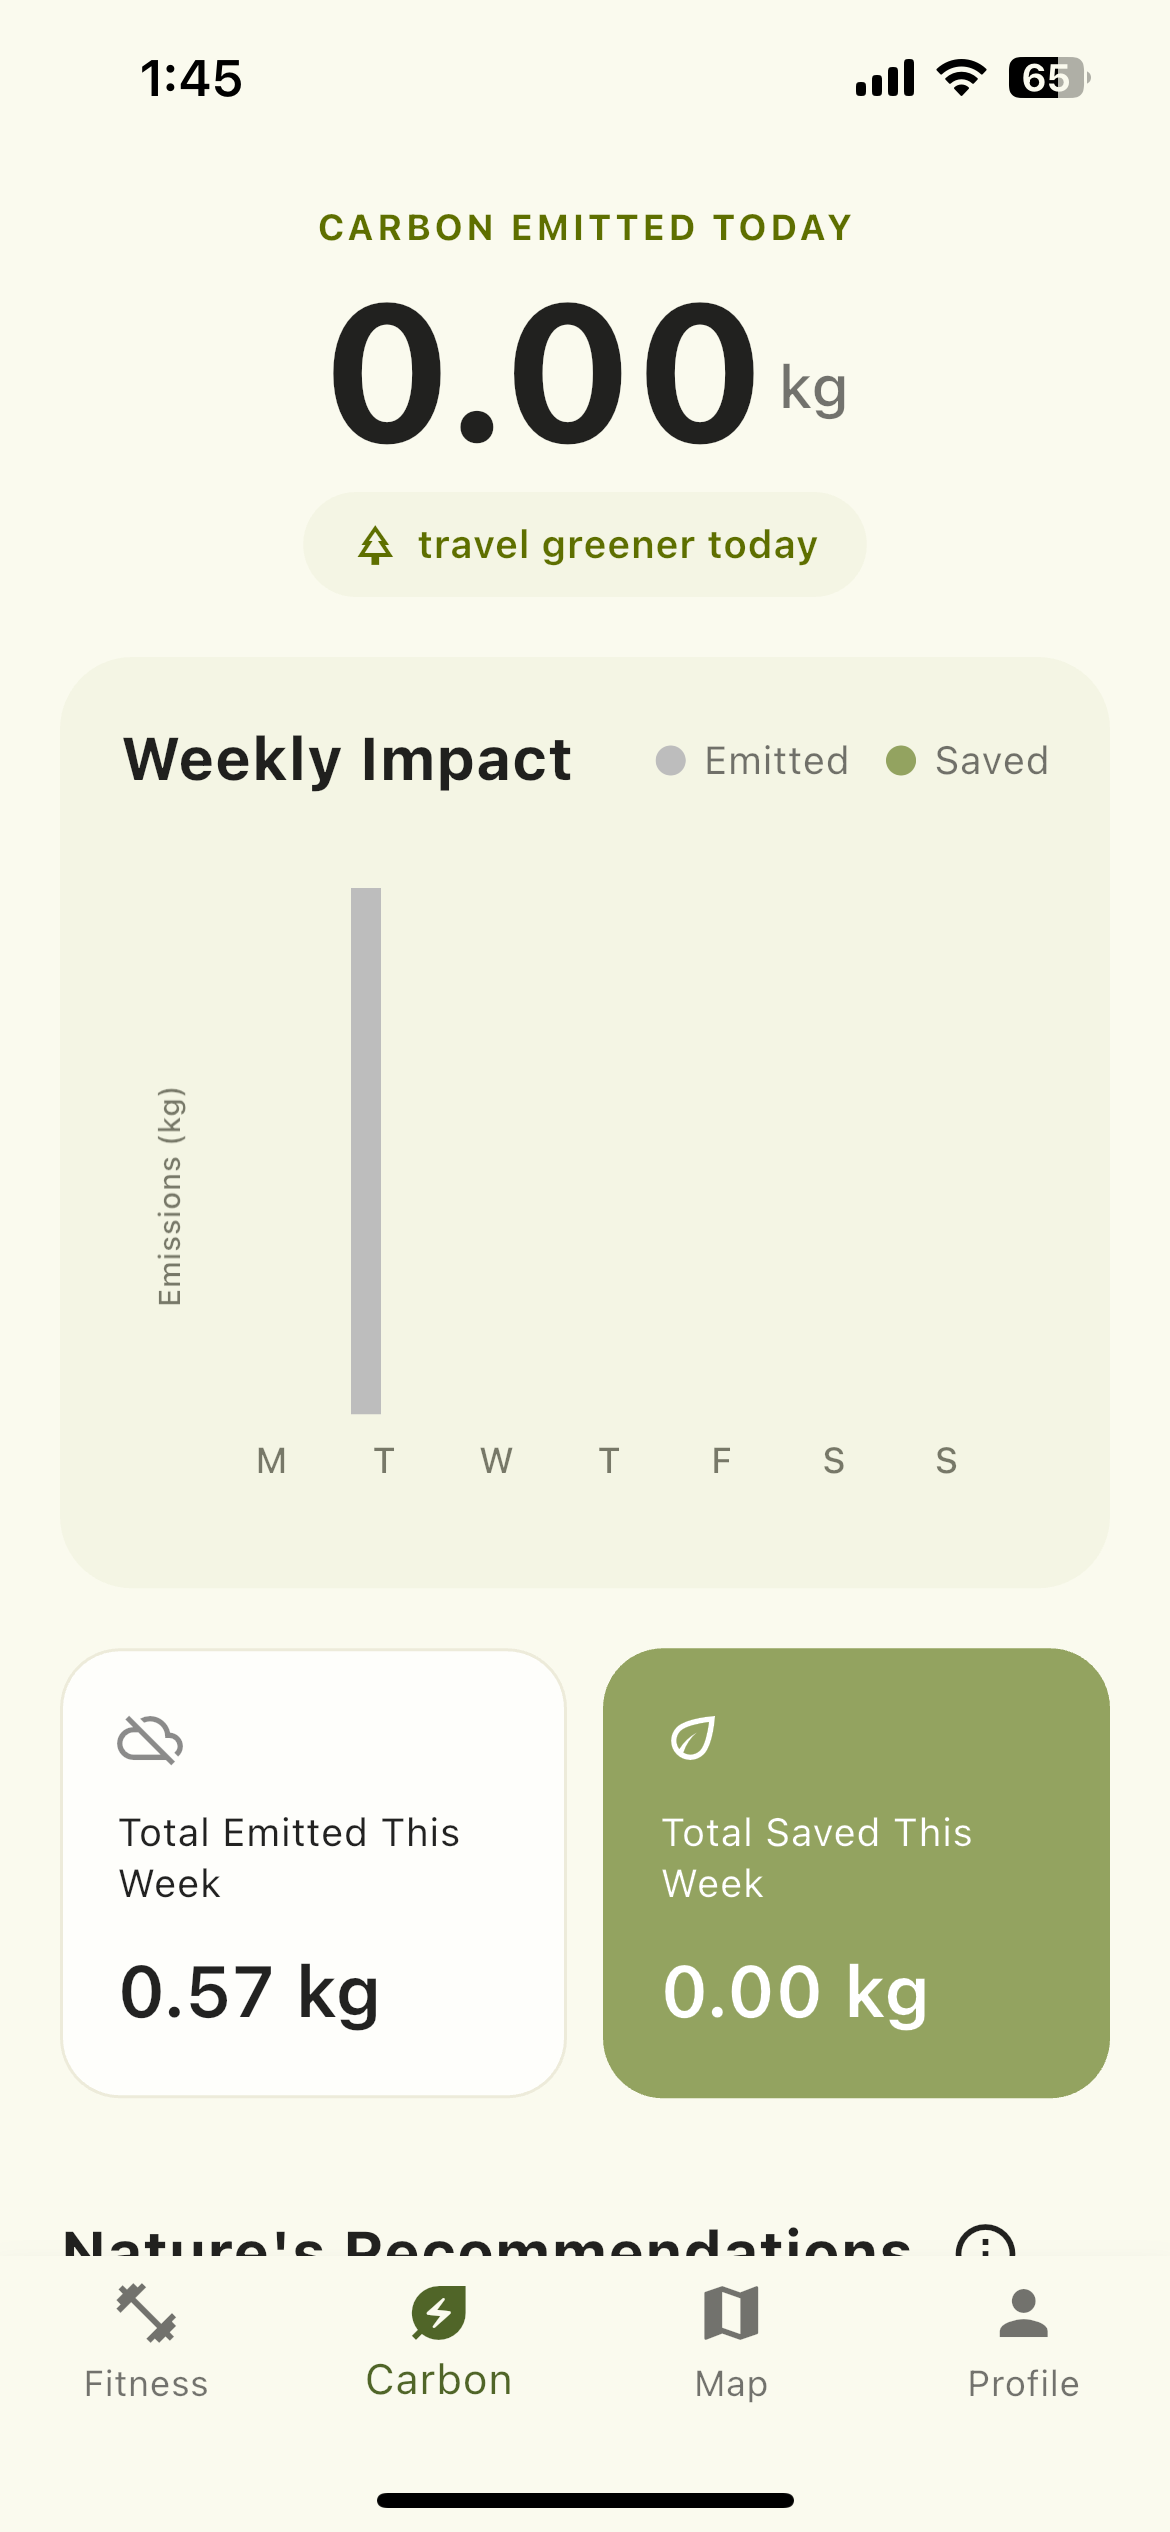
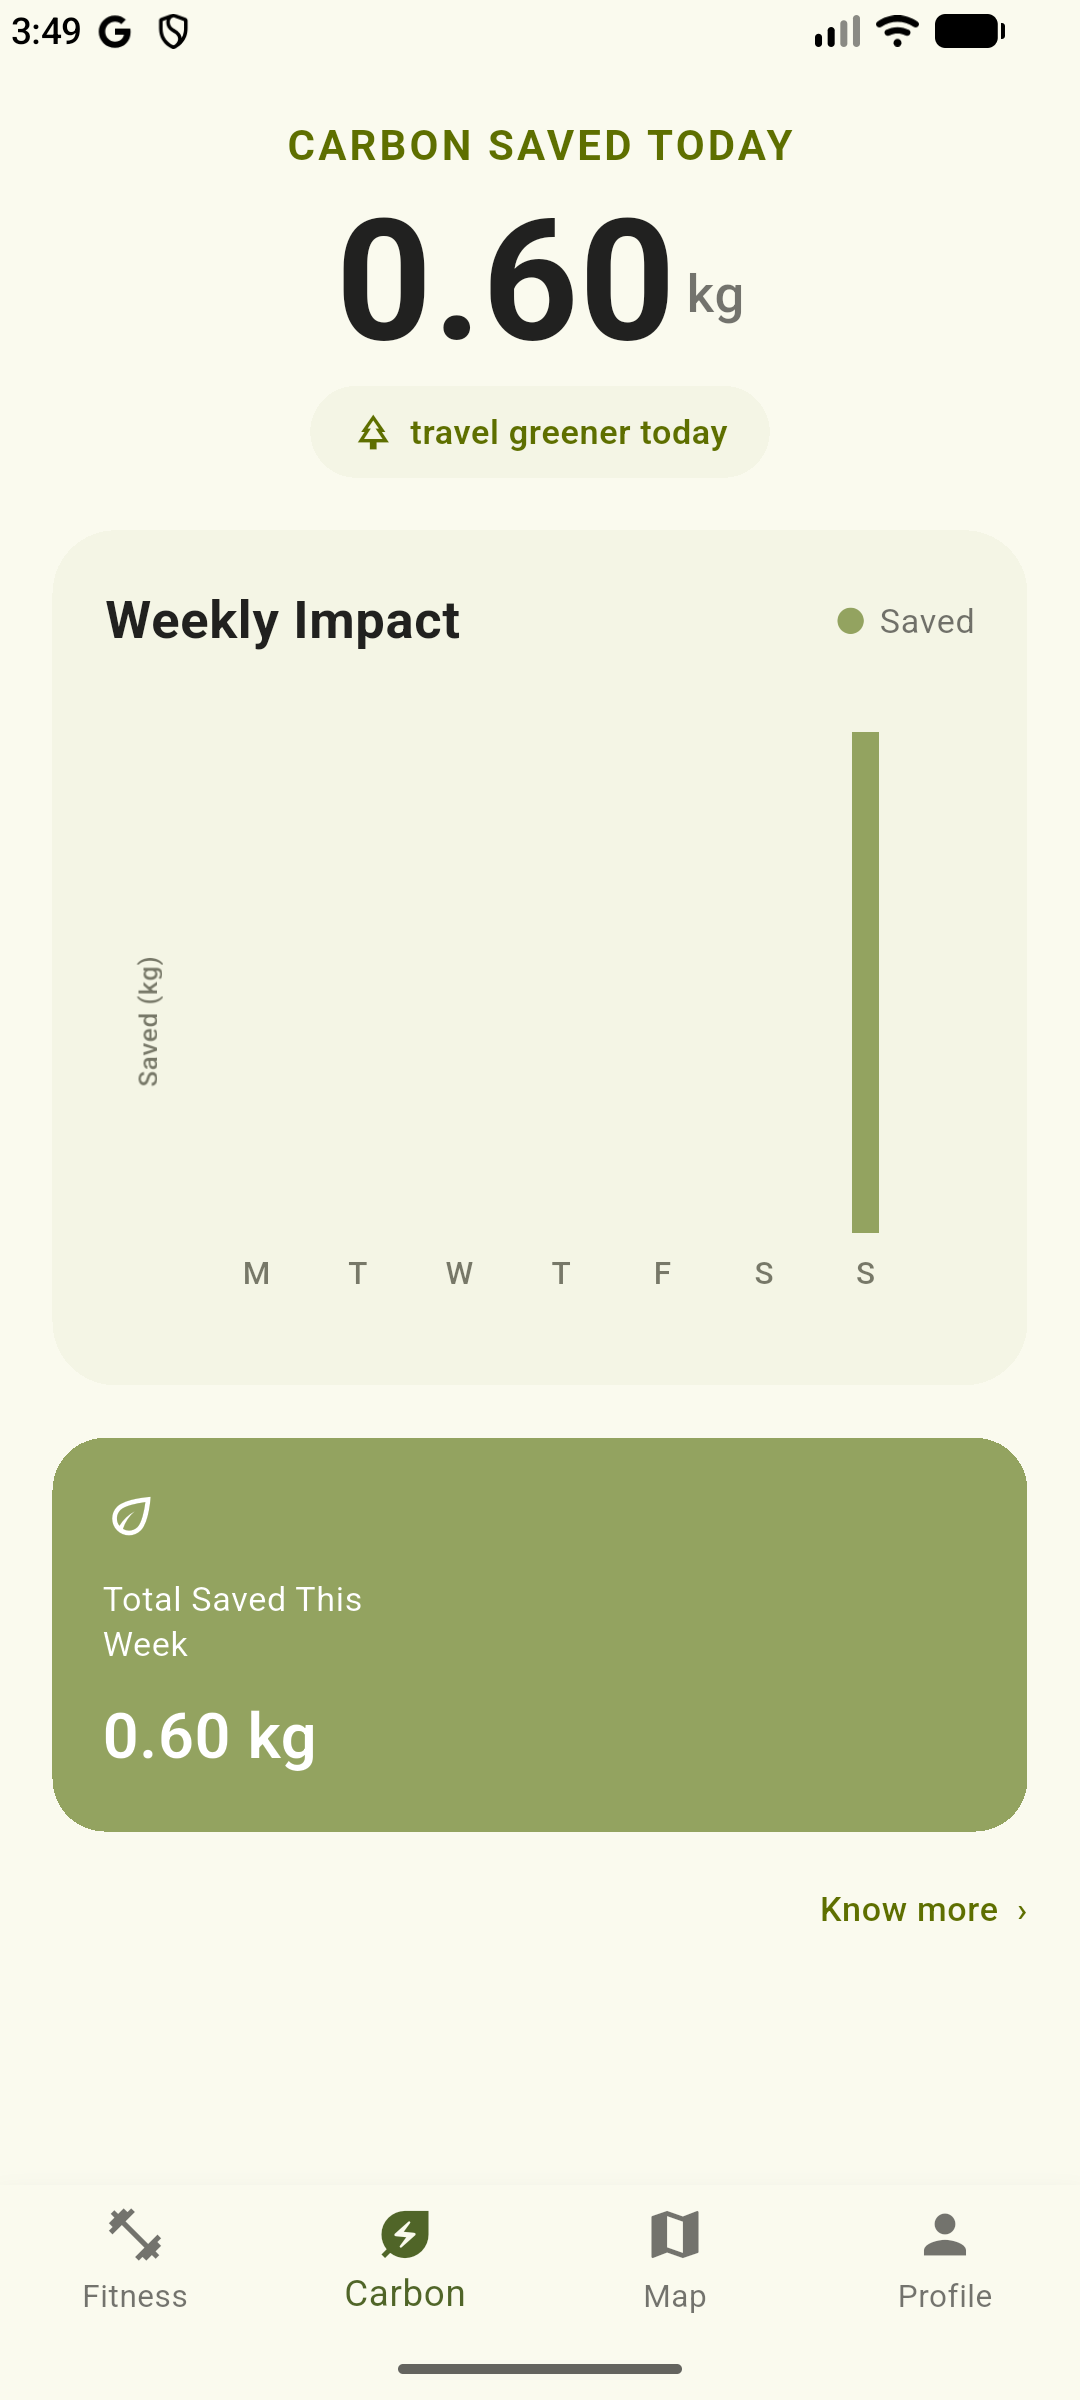
chore: docs update

diff --git a/lib/features/profile/widgets/tracking_option_tile.dart b/lib/features/profile/widgets/tracking_option_tile.dart
@@ -5,7 +5,7 @@ class TrackingOptionTile extends StatelessWidget {
   final bool selected;
   final IconData icon;
   final String label;
-  final VoidCallback onTap;
+  final VoidCallback? onTap;
   final String type;
 
   const TrackingOptionTile({
@@ -19,40 +19,38 @@ class TrackingOptionTile extends StatelessWidget {
 
   @override
   Widget build(BuildContext context) {
+    final enabled = onTap != null;
+
     return Expanded(
-      child: GestureDetector(
-        key: Key('$type-$label'),
-        onTap: onTap,
-        child: Container(
-          padding: const EdgeInsets.symmetric(vertical: 14),
-          decoration: BoxDecoration(
-            color: selected
-                ? AppColors.secondaryColor.withValues(alpha: 0.1)
-                : Colors.transparent,
-            borderRadius: BorderRadius.circular(12),
-            border: Border.all(
+      child: Opacity(
+        opacity: enabled ? 1.0 : 0.5,
+        child: GestureDetector(
+          key: Key('$type-$label'),
+          onTap: onTap,
+          child: Container(
+            padding: const EdgeInsets.symmetric(vertical: 14),
+            decoration: BoxDecoration(
               color: selected
-                  ? AppColors.secondaryColor
-                  : AppColors.greenBorder,
-              width: 1,
+                  ? AppColors.secondaryColor.withValues(alpha: 0.1)
+                  : Colors.transparent,
+              borderRadius: BorderRadius.circular(12),
+              border: Border.all(
+                color: selected
+                    ? AppColors.secondaryColor
+                    : AppColors.greenBorder,
+                width: 1,
+              ),
             ),
-          ),
-          child: Column(
-            children: [
-              Icon(
-                icon,
-                size: 20,
-                color: Colors.black87,
-              ),
-              const SizedBox(height: 4),
-              Text(
-                label,
-                style: const TextStyle(
-                  fontSize: 12,
-                  color: Colors.black87,
+            child: Column(
+              children: [
+                Icon(icon, size: 20, color: Colors.black87),
+                const SizedBox(height: 4),
+                Text(
+                  label,
+                  style: const TextStyle(fontSize: 12, color: Colors.black87),
                 ),
-              ),
-            ],
+              ],
+            ),
           ),
         ),
       ),

diff --git a/lib/features/carbon/screens/carbon_tracker.dart b/lib/features/carbon/screens/carbon_tracker.dart
@@ -44,7 +44,18 @@ class _CarbonTrackerScreenState extends ConsumerState<CarbonTrackerScreen> {
               const SizedBox(height: 20),
               Align(
                 alignment: Alignment.centerRight,
-                child: GestureDetector(
+                child: TextButton(
+                  style: TextButton.styleFrom(
+                    padding: EdgeInsets.zero,
+                    minimumSize: Size.zero,
+                    tapTargetSize: MaterialTapTargetSize.shrinkWrap,
+                  ),
+                  onPressed: () => showInfoModal(
+                    context,
+                    carbonModalTitle,
+                    carbonModalData,
+                    'Close',
+                  ),
                   child: Text(
                     "Know more  ›",
                     style: TextStyle(
@@ -52,12 +63,6 @@ class _CarbonTrackerScreenState extends ConsumerState<CarbonTrackerScreen> {
                       fontSize: 13,
                       fontWeight: FontWeight.w500,
                     ),
-                  ),
-                  onTap: () => showInfoModal(
-                    context,
-                    carbonModalTitle,
-                    carbonModalData,
-                    'Close',
                   ),
                 ),
               ),

diff --git a/lib/features/profile/screens/profile.dart b/lib/features/profile/screens/profile.dart
@@ -262,7 +262,7 @@ class _ProfileScreenState extends ConsumerState<ProfileScreen> {
                 icon: Icons.bolt,
                 label: 'High',
                 type: 'tracking',
-                onTap: () => onTrackingSelection(TrackingOption.high),
+                onTap: null,
               ),
               const SizedBox(width: 10),
               TrackingOptionTile(
@@ -270,7 +270,7 @@ class _ProfileScreenState extends ConsumerState<ProfileScreen> {
                 icon: Icons.energy_savings_leaf,
                 label: 'Eco',
                 type: 'tracking',
-                onTap: () => onTrackingSelection(TrackingOption.eco),
+                onTap: null,
               ),
             ],
           ),

diff --git a/lib/database/database_helper.dart b/lib/database/database_helper.dart
@@ -332,9 +332,11 @@ class DatabaseHelper {
   Future<void> resetDB() async {
     try {
       final Database db = await getDB();
-      await db.delete("user");
-      await db.delete("trips");
-      await db.delete("activity_data");
+      await db.transaction((txn) async {
+        await txn.delete("user");
+        await txn.delete("trips");
+        await txn.delete("activity_data");
+      });
     } on DatabaseException catch (e) {
       throw AppDatabaseException("Failed to reset database: ${e.toString()}");
     }

diff --git a/README.md b/README.md
@@ -51,9 +51,11 @@
 <h1>CarbonTracker</h1>
 </div>
 
-CarbonTracker is a Flutter-based mobile application that helps users track their fitness activity and understand its environmental impact.
+CarbonTracker is a Flutter-based mobile application that helps users track their fitness activity
+and understand its environmental impact.
 
-The app follows a local-first and privacy-focused approach, keeping user, fitness, location, and trip data on the user's device whenever possible.
+The app follows a local-first and privacy-focused approach, keeping user, fitness, location, and
+trip data on the user's device whenever possible.
 
 ## Features
 
@@ -80,9 +82,10 @@ Automatic cleanup of older trip history
 ## ✅ Project Checklist
 
 - [ ] **The mobile app** (if applicable):
-    - [ ] has an _About_ page containing the Aossie's logo and pointing to the social media accounts of the Aossie.
+    - [x] has an _About_ page containing the Aossie's logo and pointing to the social media accounts
+      of the Aossie.
     - [ ] is available for download as a release in this repo.
-    - [ ] is available in the relevant app stores.
+    - [x] is available in the relevant app stores.
 
 ## 🔗 Repository Links
 
@@ -118,7 +121,7 @@ flowchart TD
     M --> E[Start Trip Tracking]
     E --> F[App Records Location and Distance]
     F --> G[Trip Ends]
-    G --> H[Carbon Emissions and Savings Calculated]
+    G --> H[Carbon Savings Calculated]
     H --> D
 
     D --> J[Fitness Screen: View Fitness Metrics]
@@ -138,23 +141,23 @@ flowchart TD
 2. **Logging a Trip**
     - User navigates to the Map screen
     - Starts trip tracking
-    - App records location and distance in the background
+    - App records location and distance
     - User ends the trip
-    - App calculates carbon emissions and savings
-    - Results appear back on the dashboard
+    - App calculates carbon savings
+    - Results appear back on the carbon screen
 
 3. **Reviewing Fitness Metrics**
     - User navigates to the Fitness screen
-    - Views fitness data such as steps, distance, and activity insights
+    - Views fitness data such as steps, distance, blood pressure and activity insights
 
 4. **Managing Data**
     - User navigates to the Profile screen
     - Can export trip history as JSON or clear stored data at any time
-   
+
 5. **View Carbon Metrics**
     - Reviewing Carbon Insights
     - User navigates to the Carbon screen
-    - Views daily and weekly carbon emissions and carbon savings
+    - Views daily and weekly carbon savings
 
 ## 🍀 Getting Started
 
@@ -206,12 +209,45 @@ flutter run
 
 You can run the project directly from Android Studio or another IDE with Flutter support.
 
+#### 4. Build the App
+
+To create a release build, run the command for your target platform:
+
+```bash
+# Android APK
+flutter build apk --release
+
+# Android App Bundle (for Play Store)
+flutter build appbundle --release
+
+# iOS (requires macOS and Xcode)
+flutter build ios --release
+```
+
+### Testing
+
+#### Unit and Widget Tests
+
+```bash
+flutter test
+```
+
+#### Integration Tests
+
+Integration tests need a connected device or running emulator. Check that one is available with
+`flutter devices`, then run:
+
+```bash
+flutter test integration_test
+```
+
 ## 📱 App Screenshots
 
-|                                                         |                                                        |                                                          |
-|---------------------------------------------------------|--------------------------------------------------------|----------------------------------------------------------|
-| ![Onboarding](assets/screenshots/onboarding_screen.PNG) | ![Dashboard](assets/screenshots/user_info_screen.PNG)  | ![Fitness Screen](assets/screenshots/fitness_screen.PNG) |
-| ![Map Screen](assets/screenshots/map_screen.PNG)        | ![Carbon Screen](assets/screenshots/carbon_screen.PNG) | ![Profile Screen](assets/screenshots/profile_screen.PNG) |
+|                                                          |                                                            |                                                            |
+|----------------------------------------------------------|------------------------------------------------------------|------------------------------------------------------------|
+| ![Onboarding](assets/screenshots/onboarding_screen.PNG)  | ![Dashboard](assets/screenshots/user_info_screen.PNG)      | ![Dashboard](assets/screenshots/user_info_screen_2.PNG)    |
+| ![Fitness Screen](assets/screenshots/fitness_screen.PNG) | ![Fitness Screen](assets/screenshots/fitness_screen_2.PNG) | ![Map Screen](assets/screenshots/map_screen.PNG)           |
+| ![Carbon Screen](assets/screenshots/carbon_screen.PNG)   | ![Profile Screen](assets/screenshots/profile_screen.PNG)   | ![Profile Screen](assets/screenshots/profile_screen_2.PNG) |
 
 ---
 
@@ -219,7 +255,9 @@ You can run the project directly from Android Studio or another IDE with Flutter
 
 ⭐ Don't forget to star this repository if you find it useful! ⭐
 
-Thank you for considering contributing to this project! Contributions are highly appreciated and welcomed. To ensure smooth collaboration, please refer to our [Contribution Guidelines](./CONTRIBUTING.md).
+Thank you for considering contributing to this project! Contributions are highly appreciated and
+welcomed. To ensure smooth collaboration, please refer to
+our [Contribution Guidelines](./CONTRIBUTING.md).
 
 ## ✨ Maintainers
 
@@ -236,6 +274,6 @@ See the [LICENSE](LICENSE) file for details.
 
 Thanks a lot for spending your time helping CarbonTracker grow. Keep rocking 🥂
 
-[![Contributors](https://contrib.rocks/image?repo=AOSSIE-Org/CarbonTracker)](https://github.com/AOSSIE-Org/TODO/graphs/contributors)
+[![Contributors](https://contrib.rocks/image?repo=AOSSIE-Org/CarbonTracker/graphs/contributors)](https://github.com/AOSSIE-Org/TODO/graphs/contributors)
 
 © 2026 AOSSIE
